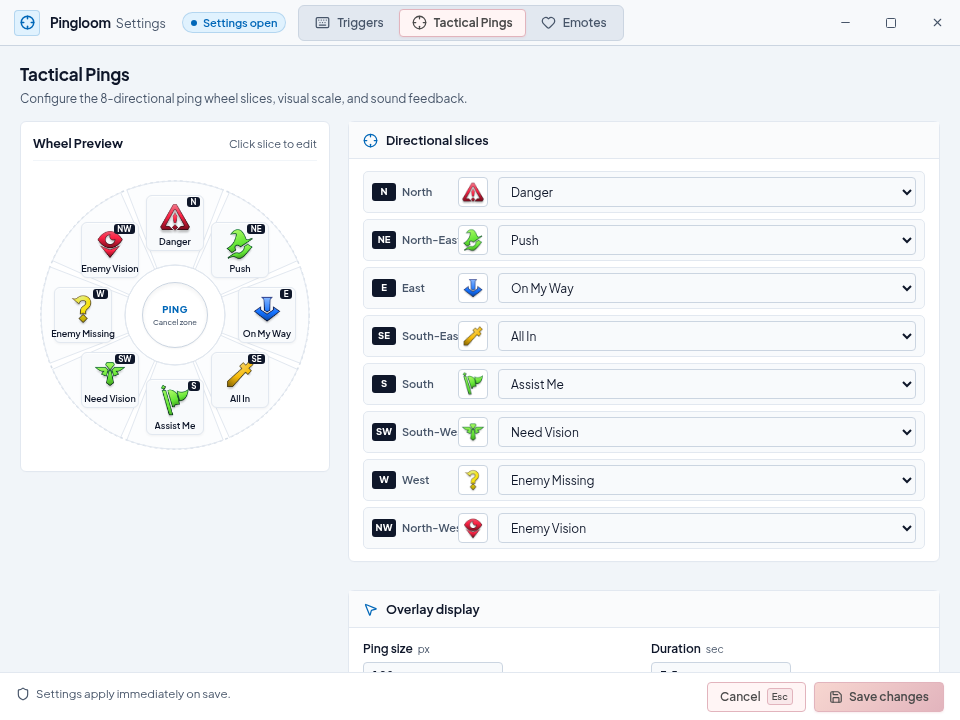
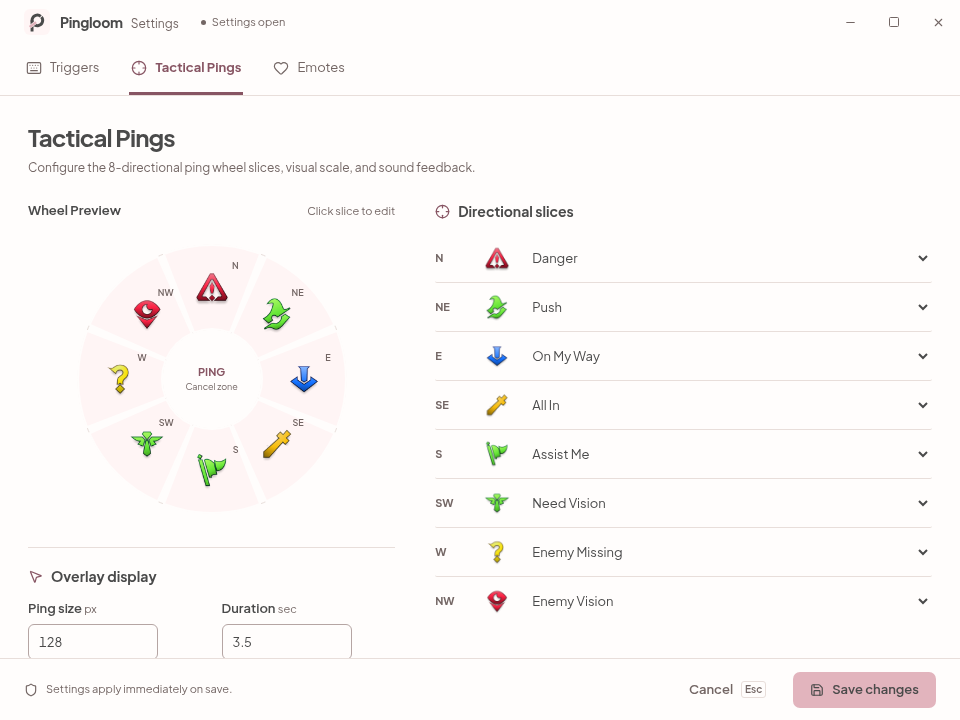
docs: refresh README for warm rose release

diff --git a/README.md b/README.md
@@ -1,7 +1,7 @@
 # Pingloom
 
 <p align="center">
-  <img src="docs/media/pingloom-banner.svg" alt="Pingloom Banner" width="960" />
+  <img src="docs/media/brand/pingloom-mark.svg" alt="Pingloom ribbon-woven P logo" width="120" />
 </p>
 
 <p align="center">
@@ -21,12 +21,24 @@ Native Rust owns latency-sensitive low-level keyboard/mouse hooks, input replay,
 
 ---
 
+## Download — v0.1.0 prerelease
+
+| Platform | Download | Requirements |
+| --- | --- | --- |
+| Windows 11 x64 | [pingloom.exe](https://github.com/zhugez/pingloom/releases/download/v0.1.0/pingloom.exe) | Evergreen WebView2; unsigned executable |
+| Linux x64 | [DEB](https://github.com/zhugez/pingloom/releases/download/v0.1.0/Pingloom_0.1.0_amd64.deb) · [tar.gz](https://github.com/zhugez/pingloom/releases/download/v0.1.0/pingloom-linux-x64.tar.gz) | Ubuntu 24.04-compatible dependencies, compositing X11 and input-device permissions; experimental |
+| macOS ARM64 | [App ZIP](https://github.com/zhugez/pingloom/releases/download/v0.1.0/pingloom-macos-arm64.zip) | Accessibility/Input Monitoring; ad-hoc signed, not notarized; experimental |
+
+[Release notes, build provenance and SHA-256 checksums](https://github.com/zhugez/pingloom/releases/tag/v0.1.0).
+
+**Version stays at 0.1.0 while the prerelease is refreshed.** Download again to get the latest UI and fixes, even if your installed app also reports 0.1.0. Distinguish builds using the attached build commit/checksum. Earlier v0.2.x prereleases have been consolidated here. See [platform setup](docs/PLATFORMS.md) before running.
+
 ## Why Pingloom?
 
 - **Game-independent communication**: Summon tactical wheel pings (Danger, On My Way, Assist Me, Need Vision, etc.) and animated emotes on supported desktop sessions.
 - **Zero game hooking**: Operates entirely outside game processes via native OS input APIs; no game-process injection.
 - **Native execution architecture**: All gesture recognition, wheel hit-testing, and transparent overlay drawing run directly in compiled native Rust (architectural design, not an empirical latency benchmark).
-- **Modern desktop utility UX**: Settings window features Windows 11 Mica vibrancy, frameless custom window controls, and pastel wedding palette tokens (`#FFF5F5`, `#F7D6D0`, `#E2B4BD`, `#4A4A4A`) with measured button text contrast ratios (4.85:1 to 8.28:1; live Windows runtime untested).
+- **Warm, focused Settings**: Warm-white/blush surfaces, rose accents and charcoal text; separate titlebar and navigation, flat property groups, readable 36px controls, dark mode and responsive layouts. The ribbon-woven P identity carries through app icons, tray and Settings. See [design details](DESIGN.md).
 
 ---
 
@@ -47,20 +59,24 @@ Pingloom uses an eight-slice radial selection wheel with a central cancellation 
 
 The Settings window provides complete customization across three focused pages:
 
-- **Triggers**: Trigger key selectors (`Alt`, `Ctrl`, `Shift`, `Windows`, `Off`, or custom virtual keys), drag threshold numeric input (2–40 px), launch startup toggle (`enabled_on_start`), pause over fullscreen games, and global toggle hotkey editor.
+- **Triggers**: Trigger key selectors (`Alt`, `Ctrl`, `Shift`, `Windows`, `Off`, or custom virtual keys), drag threshold numeric input (2–40 px), enable-gestures-at-launch toggle (`enabled_on_start`; not OS startup registration), pause over fullscreen games, and global toggle hotkey editor.
 - **Tactical Pings**: Interactive 8-slice radial preview with real League ping icons, real-time duplicate slot detection, 8-row slot assignment table, ping size scaling (60–220 px), display duration (1.0–8.0 s), effects volume (0–100%), tick sounds, and mute toggle.
-- **Emotes**: Interactive 8-slice emote radial preview, 8-row emote assignment table with static PNG preview thumbnails (native overlay renders animated WebP), emote overlay size slider (80–300 px), and bundled emote audio toggle.
+- **Emotes**: Interactive 8-slice emote radial preview, 8-row emote assignment table with static PNG preview thumbnails (native overlay renders animated WebP), emote overlay size input (80–300 px), and bundled emote audio toggle.
 
 > **Note on custom titlebar:** Custom HTML window caption buttons inside WebView2 cannot natively trigger the Windows 11 DWM Snap Layout flyout on hover without Win32 `WM_NCHITTEST` non-client message interception on the top-level HWND.
 
-### UI Previews
+### UI Previews — current warm rose design
+
+The wheel shows artwork directly on eight wedges, with a flat assignment editor alongside it. Display controls sit below the wheel; audio follows the workspace. Checkboxes and sliders share the same rose theme rather than default daisyUI colors.
 
 > **Note on screenshots:** The captures below are rendered UI previews generated against `ui/dist` using the automated headless test harness (`ui/tests/verify-ui.cjs`) with simulated Tauri 2 IPC and native chrome mocks. They are not direct Windows 11 DWM screenshots.
 
 <p align="center">
-  <img src="docs/media/pingloom-pings-preview.png" alt="Pingloom Tactical Pings Settings Preview" width="470" />
-  &nbsp;
-  <img src="docs/media/pingloom-emotes-preview.png" alt="Pingloom Emotes Settings Preview" width="470" />
+  <img src="docs/media/pingloom-pings-preview.png" alt="Warm rose Tactical Pings Settings: flat wheel and directional editor" width="960" />
+</p>
+<p align="center">
+  <img src="docs/media/pingloom-triggers-preview.png" alt="Warm rose Triggers and Shortcuts Settings" width="470" />
+  <img src="docs/media/pingloom-emotes-preview.png" alt="Warm rose Emotes Settings" width="470" />
 </p>
 
 ---
@@ -80,7 +96,7 @@ Legacy settings storage path and schema are preserved for backwards compatibilit
 
 ### Prerequisites
 
-- **Target OS**: Windows 11 x64; experimental Linux x64/X11 and macOS (CI host architecture). [Unix build/runtime prerequisites](docs/PLATFORMS.md).
+- **Target OS**: Windows 11 x64; experimental Linux x64/X11 and macOS ARM64. [Unix build/runtime prerequisites](docs/PLATFORMS.md).
 - **Windows Runtime Prerequisite**: Microsoft **Evergreen WebView2 Runtime** (preinstalled on Windows 11; required for the Settings WebView).
 - **Build Tools**:
   - Rust stable (`x86_64-pc-windows-msvc` toolchain).
@@ -158,7 +174,7 @@ Physical Linux/macOS gesture, permission, overlay and mixed-DPI acceptance is al
 
 Real Windows 11 visual and runtime smoke testing has **not** been executed on this development host. Specifically:
 - Windows-specific mailbox, hook pump, and session tests compile under `x86_64-pc-windows-gnu`, but native Win32 window message loops were not executed on a live Windows desktop.
-- No claims are made regarding physical input latency, RAM consumption under load, installer compression, or pre-built downloadable installers.
+- Native CI-built downloads are available above; they do not establish physical input latency, RAM consumption under load or successful desktop acceptance.
 - Embedded assets (textures, WebP emotes, and audio clips) total approximately 58 MiB; expect an appropriately sized executable.
 
 ### Windows 11 Pre-Release Manual Smoke Checklist
